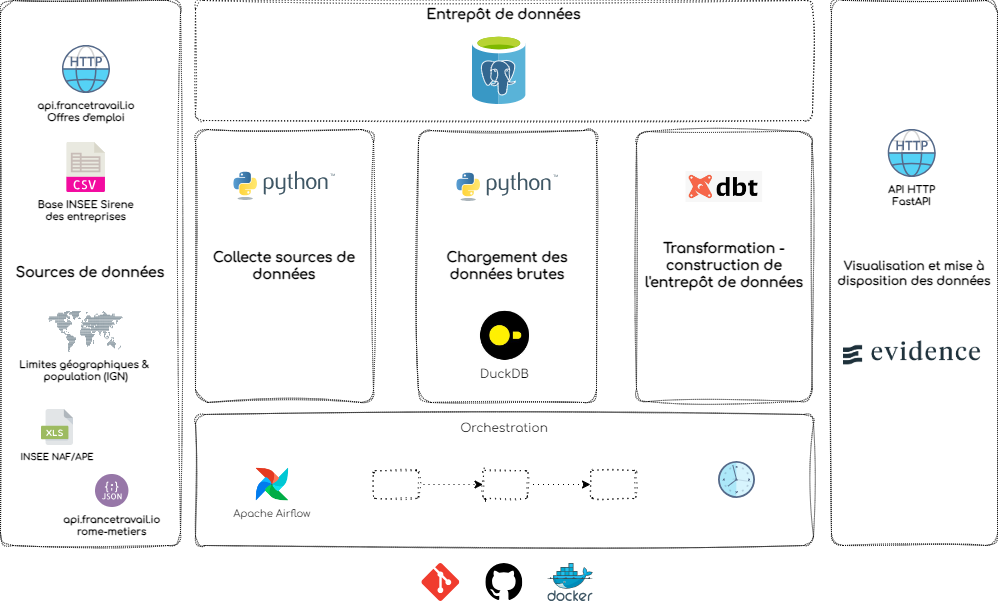
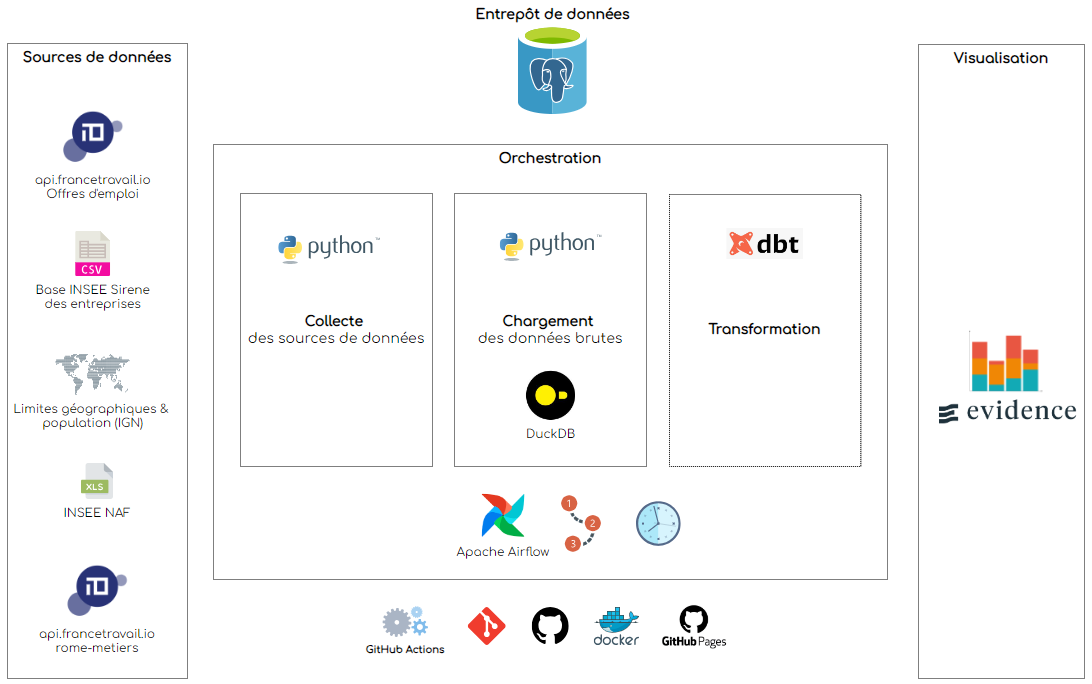
Mise a jour documentation

diff --git a/documentation/content/docs/objectifs.md b/documentation/content/docs/objectifs.md
@@ -11,6 +11,54 @@ toc: false
 
 <hr>
 
-### Description fonctionnelle du projet
+## Sources du projet
+
+[**GitHub**](https://github.com/projet-data-engineer/entrepot-emploi)
+
+## Finalité
+
+- L'objectif de ce projet est de produire un **entrepôt de données** et une **analyse des données d'offres d'emploi de France Travail**, au travers de tableaux de bord de visualisation de données.
+
+- En collectant quotidiennement les nouvelles offres d'emploi, nous serons en capacité à terme d'**analyser l'évolution du marché de l'emploi en France** au cours du temps, et tenter d'en dégager des tendances.
+
+- Pour ce faire, nous collectons également d'**autres jeux de données issus de l'Open Data** pour les **croiser** avec les offres d'emploi et ainsi **enrichir les données d'offres d'emploi**.
+
+- Notre objectif pour ce projet était d'adopter une approche `Modern Data Stack`, consistant en l'utilisation de technologies et de pratiques modernes pour collecter, charger, transformer et analyser les données de manière efficace et évolutive. A ce titre, nous avons fait le choix de technologies et de pratiques ayant émergées assez récemment:
+
+  - **DuckDB** comme moteur de calcul et de chargement pour ses performances, sa facilité d'installation et d'utilisation, sa capacité à lire un grand nombre de format de fichiers, et enfin son approche SQL.
+
+  - **dbt** pour la transformation des données brutes et la construction de l'entrepôt de données, en SQL également, et avec une approche **ELT** versus ETL.
+
+  - **evidence** pour la partie visualisation des données, qui permet de produire des sites statiques à partir de fichier Markdown, et qui utilise également DuckDB dans sa version WebAssembly comme moteur de stockage interne.
+
+## Synopsis
+
+1. A partir des jeux de données sources, des scripts Python collectent les données dans des fichiers de données brutes à l'emplacement /donnees_brutes du projet.
+
+2. Des scripts Python chargent les données brutes à partir des fichiers de collecte dans l'entrepôt de données PostgreSQL.
+
+3. Les données brutes chargées dans l'entrepôt sont transformées via dbt pour construire l'entrepôt de données cible dans un schéma de base de données nommé emploi.
+
+4. Enfin, evidence extrait les données de l'entrepôt dans des fichiers Parquet, qu'il charge ensuite via son moteur interne DuckDB WASM pour afficher les visualisations de données.
+
+5. L'ensemble des traitements permettant de construire l'entrepôt de données sont executés, programmés et ordonnancés avec Apache Airflow.
+
+## Schéma fonctionnel du projet
 
 ![vue-fonctionnelle](/images/vue-fonctionnelle.png)
+
+## Structure du projet
+
+- **/airflow**: dossier dags et logs d'Airflow.
+- **/collecte**: scripts de collecte.
+- **/chargement**: scripts de chargement.
+- **/documentation**: site Hugo permettant de générer la présente documentation. Un pipeline CI/CD GitHub Actions permet de le déployer sur GitHub Pages.
+- **/donnees_brutes**: emplacement de stockage des données brutes collectées.
+- **/transformation**: projet dbt de transformation des données brutes chargées dans l'entrepôt.
+- **/visualisation**: site statique evidence des visualisations de données.
+
+## Execution locale du projet
+
+- La mise en production ne fait pas partie du périmètre du projet.
+- Airflow et l'entrepôt de données PostgreSQL sont executés via Docker et Docker Compose.
+- cf. README du [repository du projet sur GitHub](https://github.com/projet-data-engineer/entrepot-emploi) pour l'éxecution locale du projet.

diff --git a/README.md b/README.md
@@ -21,7 +21,7 @@ Développement d'une application d'analyse du marché de l'emploi à partir d'un
 
 ## Execution locale du projet
 
-### Prérequis
+Prérequis
 
   - Inscription sur la plateforme [francetravail.io](https://francetravail.io/inscription)
   - Créer une application sur la plateforme et y ajouter l'**API Offres d'emploi**
@@ -69,27 +69,11 @@ docker-compose build
 docker-compose up -d
 ```
 
-### Executer les DAG's Airflow
-
-  - pipeline_cog_carto
-  - pipeline_naf
-  - pipeline_offres_date
-  - pipeline_rome
-  - pipeline_sirene
-
-### Charger l'ensemble des fichiers de collecte d'offres d'emploi présents dans le dossier donnees_brutes/offre_emploi (Optionnel)
-
-- executer localement le script Python chargement/chargement_offres_stock.py
-- executer la transformation dbt depuis /transformation
-
-```powershell
-cd .\transformation\
-dbt run
-```
+### Executer le DAG Airflow _initialisation_
 
 ### Execution du projet visualisation - Evidence
 
-- Note: les fichiers geojson utilisés par les visualisations spatiales sont créés par le script chargement/chargement_cog_carto.py executé par le DAG pipeline_cog_carto
+- Note: les fichiers geojson utilisés par les visualisations spatiales sont créés par le script chargement/chargement_cog_carto.py executé par le DAG initialisation.
 
 ```powershell
 cd .\visualisation\
